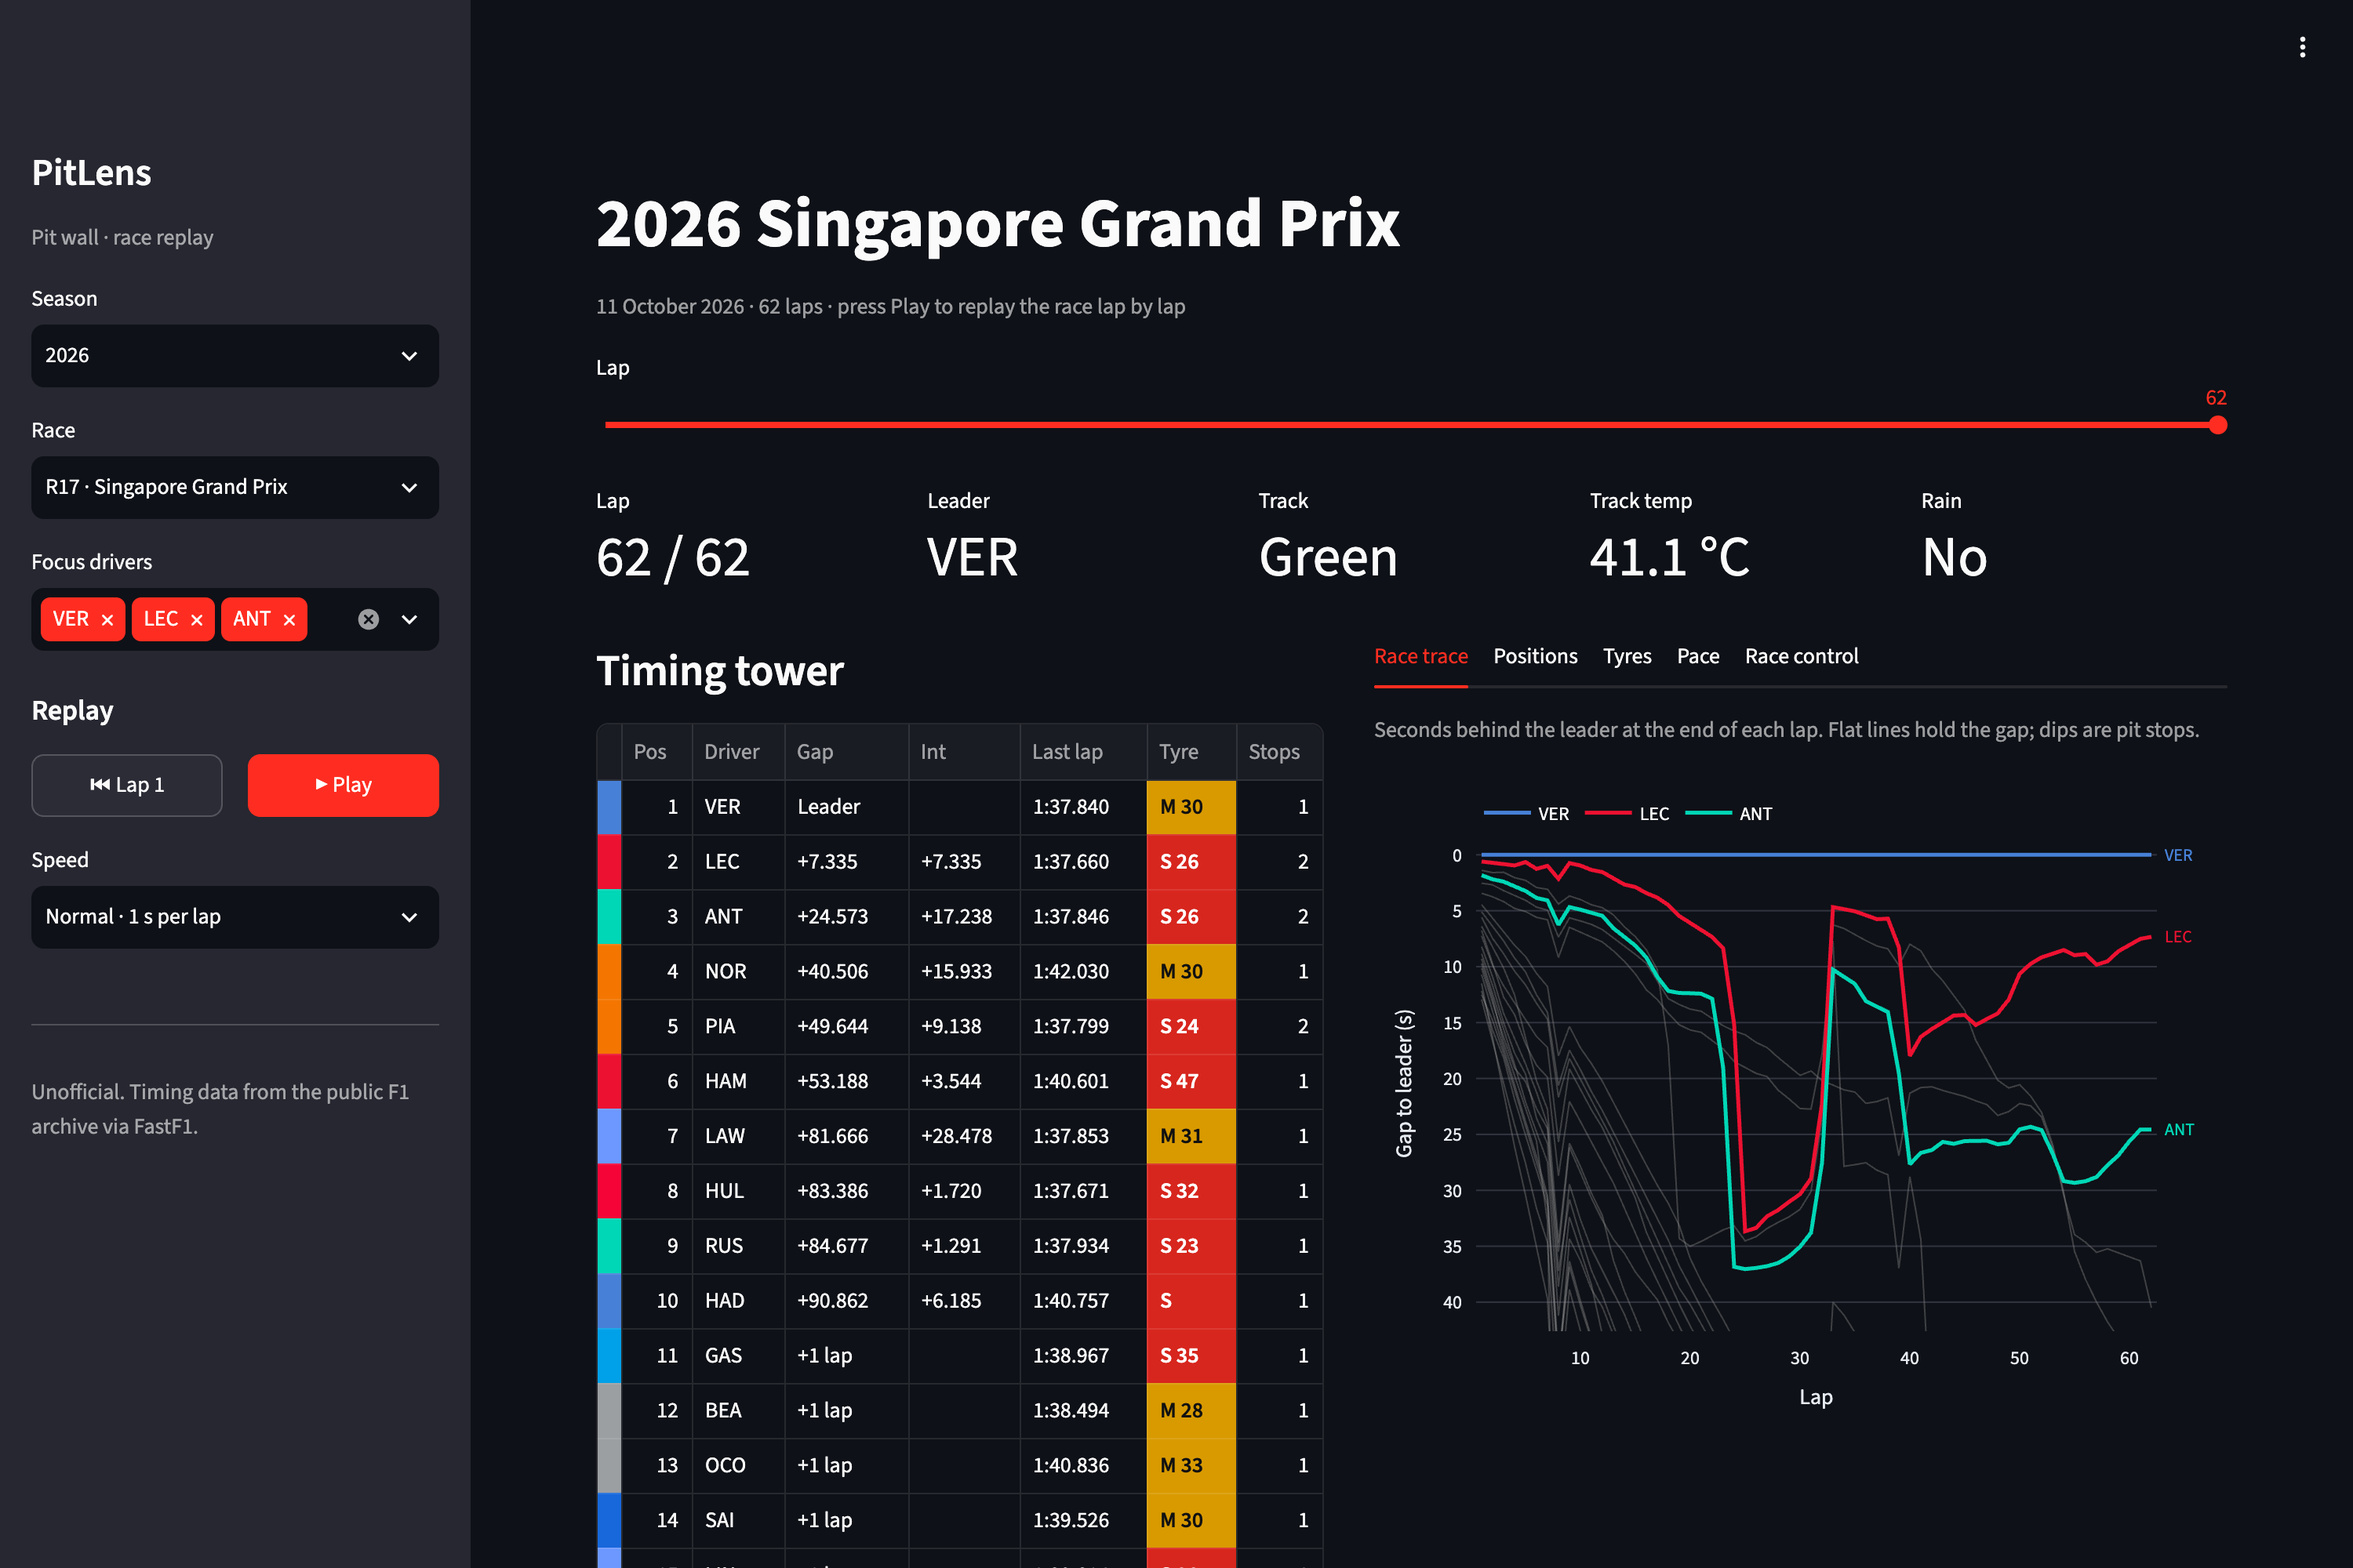
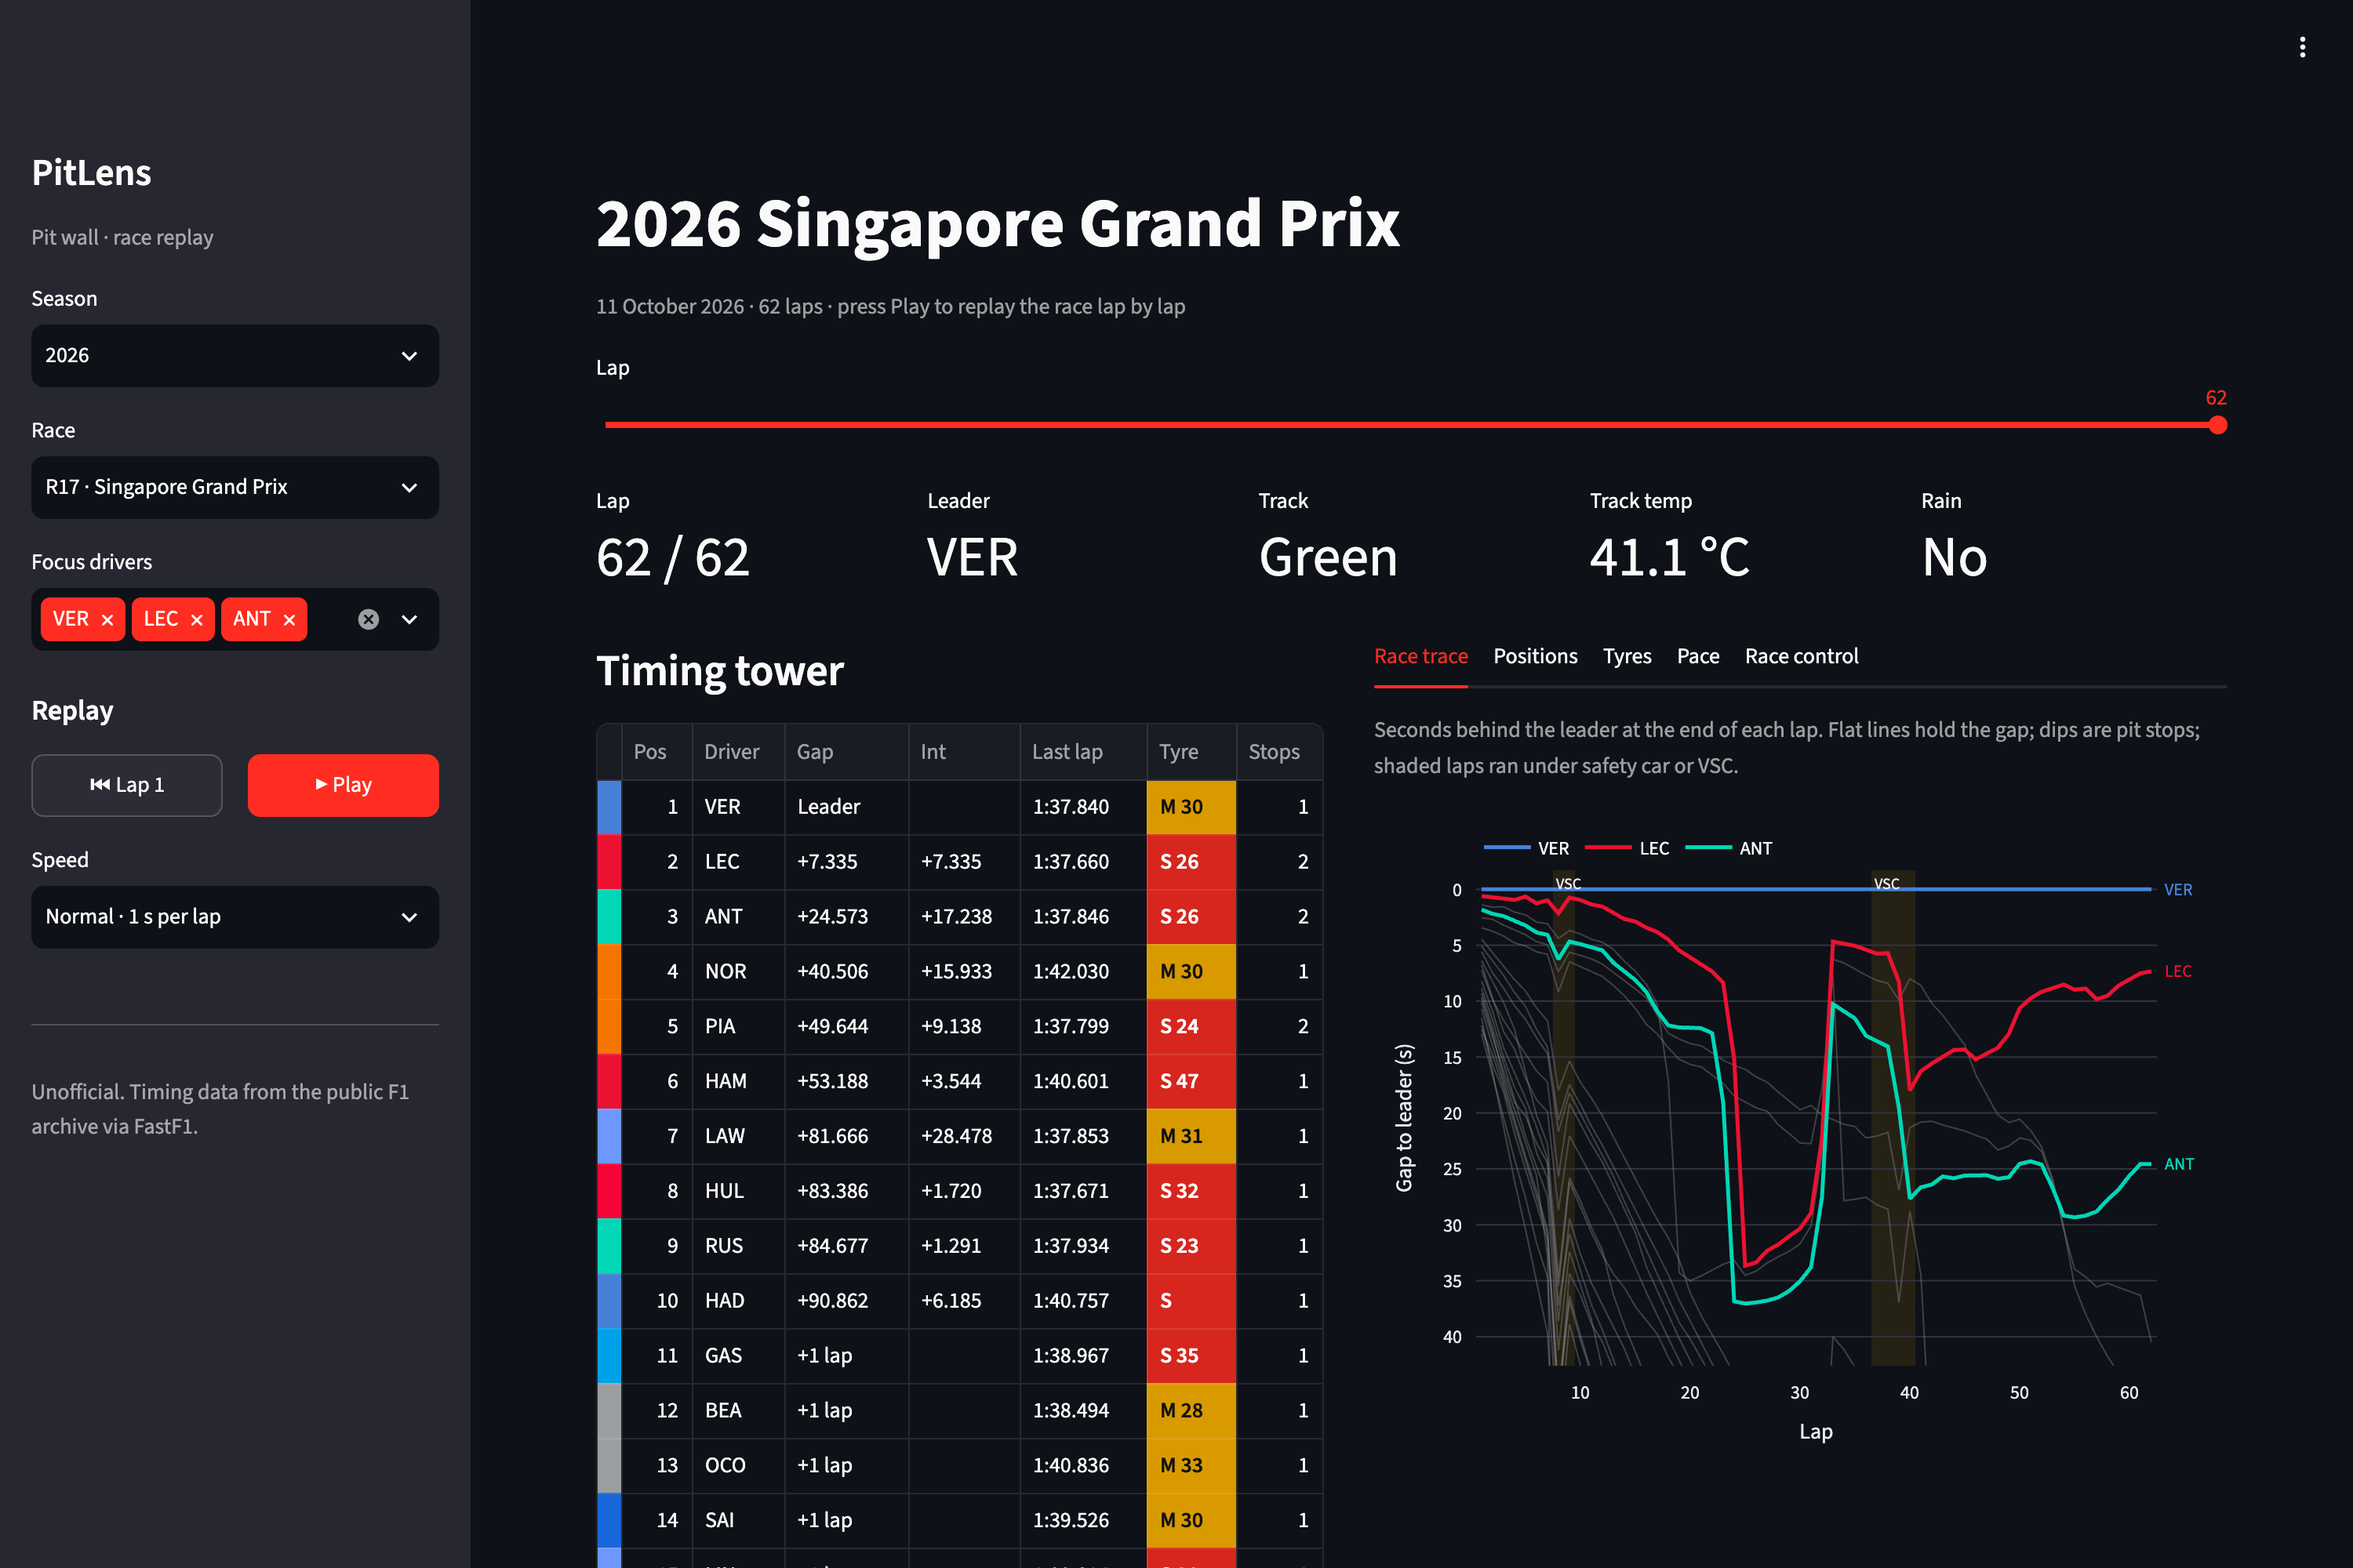
Shade safety car and VSC laps on the race trace and positions

Changed region(s): [[0.589, 0.527, 0.93, 0.868], [0.589, 0.465, 0.713, 0.496]]

diff --git a/pitlens/pitwall/app.py b/pitlens/pitwall/app.py
@@ -8,7 +8,14 @@ import streamlit as st
 
 from pitlens.pitwall import charts
 from pitlens.pitwall.data import FIRST_SEASON, RaceData, completed_races, load_race
-from pitlens.pitwall.timing import gap_to_leader, leader_times, stint_timeline, timing_tower, track_status
+from pitlens.pitwall.timing import (
+    gap_to_leader,
+    leader_times,
+    neutralised_periods,
+    stint_timeline,
+    timing_tower,
+    track_status,
+)
 from pitlens.stints.pace import stint_degradation
 from pitlens.style import COMPOUND_COLORS
 
@@ -116,6 +123,7 @@ def race_view(race: RaceData) -> None:
     focus = ss.focus
 
     laps = race.laps[race.laps["LapNumber"] <= lap]
+    periods = neutralised_periods(laps)
     tower = timing_tower(race.laps, lap, race.retired)
     lead_time = leader_times(race.laps).get(lap)
     leader_lap = laps[(laps["Driver"] == tower.loc[0, "Driver"]) & (laps["LapNumber"] == lap)]
@@ -152,10 +160,15 @@ def race_view(race: RaceData) -> None:
     with right:
         trace, positions, tyres, pace, control = st.tabs(["Race trace", "Positions", "Tyres", "Pace", "Race control"])
         with trace:
-            st.caption("Seconds behind the leader at the end of each lap. Flat lines hold the gap; dips are pit stops.")
-            st.plotly_chart(charts.gap_chart(gap_to_leader(laps), focus, race.team_colors, race.total_laps), width="stretch")
+            st.caption(
+                "Seconds behind the leader at the end of each lap. Flat lines hold the gap; dips are pit stops; "
+                "shaded laps ran under safety car or VSC."
+            )
+            fig = charts.gap_chart(gap_to_leader(laps), focus, race.team_colors, race.total_laps)
+            st.plotly_chart(charts.shade_periods(fig, periods), width="stretch")
         with positions:
-            st.plotly_chart(charts.position_chart(laps, focus, race.team_colors, race.total_laps), width="stretch")
+            fig = charts.position_chart(laps, focus, race.team_colors, race.total_laps)
+            st.plotly_chart(charts.shade_periods(fig, periods), width="stretch")
         with tyres:
             st.caption("Tyre stints in the current running order.")
             st.plotly_chart(

diff --git a/pitlens/pitwall/timing.py b/pitlens/pitwall/timing.py
@@ -31,6 +31,30 @@ def track_status(code) -> str:
     return "Unknown"
 
 
+def neutralised_periods(laps: pd.DataFrame) -> list[tuple[str, int, int]]:
+    """Runs of laps run under safety car, VSC or red flag, as (status, first, last).
+
+    Each lap takes the most severe status any car saw on it.
+    """
+    per_lap = (
+        laps.dropna(subset=["TrackStatus"])
+        .groupby("LapNumber")["TrackStatus"]
+        .apply(lambda codes: track_status("".join(map(str, codes))))
+        .sort_index()
+    )
+    periods: list[tuple[str, int, int]] = []
+    for lap, status in per_lap.items():
+        if status == "VSC ending":
+            status = "VSC"
+        if status not in ("Safety car", "VSC", "Red flag"):
+            continue
+        if periods and periods[-1][0] == status and periods[-1][2] == lap - 1:
+            periods[-1] = (status, periods[-1][1], int(lap))
+        else:
+            periods.append((status, int(lap), int(lap)))
+    return periods
+
+
 def retired_drivers(results: pd.DataFrame) -> set[str]:
     """Drivers whose result shows they did not take the chequered flag."""
     status = results["Status"].fillna("")

diff --git a/pitlens/pitwall/charts.py b/pitlens/pitwall/charts.py
@@ -64,6 +64,20 @@ def _driver_lines(df: pd.DataFrame, y: str, focus, colors, hover: str) -> go.Fig
     return fig
 
 
+PERIOD_STYLE = {"Safety car": ("SC", "rgba(240,180,0,0.18)"), "VSC": ("VSC", "rgba(240,180,0,0.10)"), "Red flag": ("RED", "rgba(225,6,0,0.15)")}
+
+
+def shade_periods(fig: go.Figure, periods) -> go.Figure:
+    """Shade safety car, VSC and red flag laps behind the lines."""
+    for status, first, last in periods:
+        label, color = PERIOD_STYLE[status]
+        fig.add_vrect(
+            x0=first - 0.5, x1=last + 0.5, fillcolor=color, line_width=0, layer="below",
+            annotation_text=label, annotation_position="top left", annotation_font_size=10,
+        )
+    return fig
+
+
 def gap_chart(gaps: pd.DataFrame, focus, colors, total_laps: int) -> go.Figure:
     """Race trace: seconds behind the leader, lap by lap (leader on top)."""
     fig = _driver_lines(gaps, "Gap", focus, colors, "+%{y:.1f} s to leader")

diff --git a/tests/test_timing.py b/tests/test_timing.py
@@ -4,6 +4,7 @@ import pytest
 from pitlens.pitwall.timing import (
     format_lap_time,
     gap_to_leader,
+    neutralised_periods,
     retired_drivers,
     stint_timeline,
     timing_tower,
@@ -106,3 +107,13 @@ def test_retired_drivers():
 def test_format_lap_time():
     assert format_lap_time(pd.to_timedelta(81.3456, unit="s")) == "1:21.346"
     assert format_lap_time(pd.NaT) == ""
+
+
+def test_neutralised_periods_groups_consecutive_laps():
+    laps = pd.DataFrame(
+        {
+            "LapNumber": [1, 2, 3, 4, 5, 6, 7, 7],
+            "TrackStatus": ["1", "14", "4", "41", "1", "6", "1", "67"],
+        }
+    )
+    assert neutralised_periods(laps) == [("Safety car", 2, 4), ("VSC", 6, 7)]

diff --git a/ROADMAP.md b/ROADMAP.md
@@ -30,7 +30,7 @@ pace, tyres and strategy as the race unfolds. It is built in layers, each useful
       updating, so the whole live pipeline can be built and tested on any weekend
 - [x] Timing tower, race trace, positions, tyre stints, degradation so far and clean-lap pace
 - [x] Race-control messages, track status and weather alongside the charts
-- [ ] Mark safety car and VSC periods on the race trace
+- [x] Mark safety car and VSC periods on the race trace
 - [ ] Optional public deployment on Streamlit Community Cloud
 
 ## 5. `pitwall` live mode and `radio`
